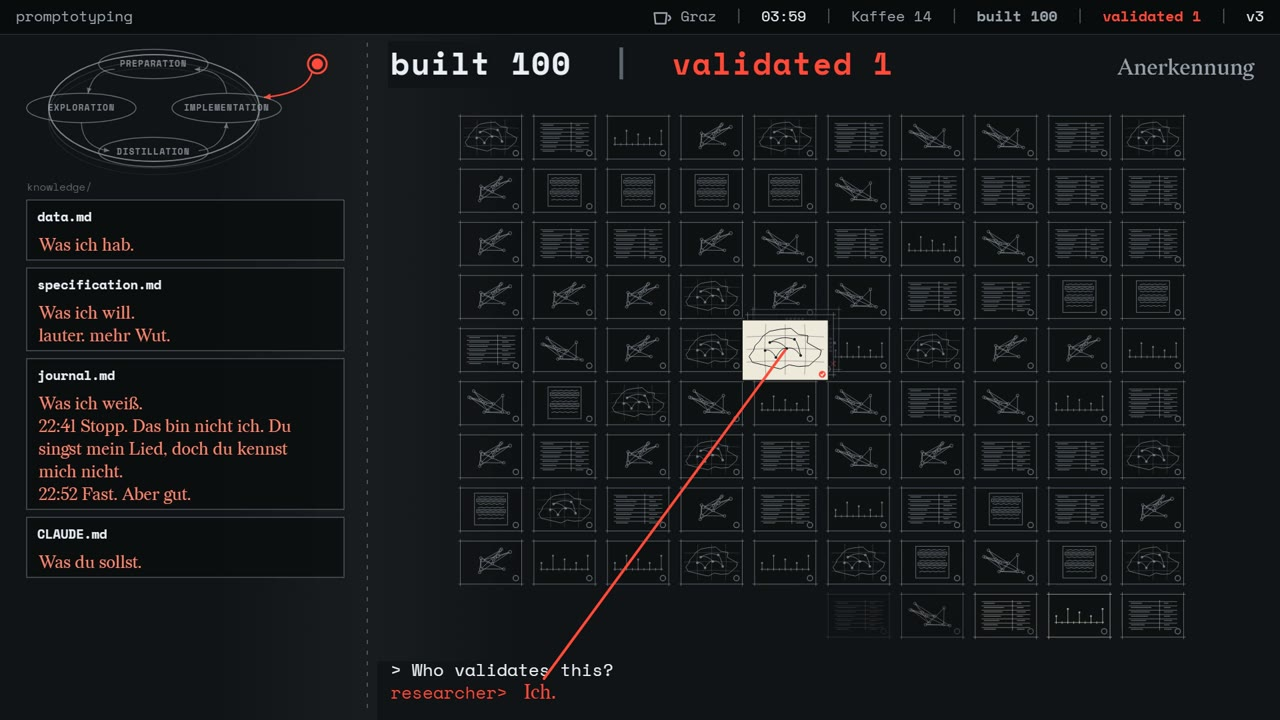
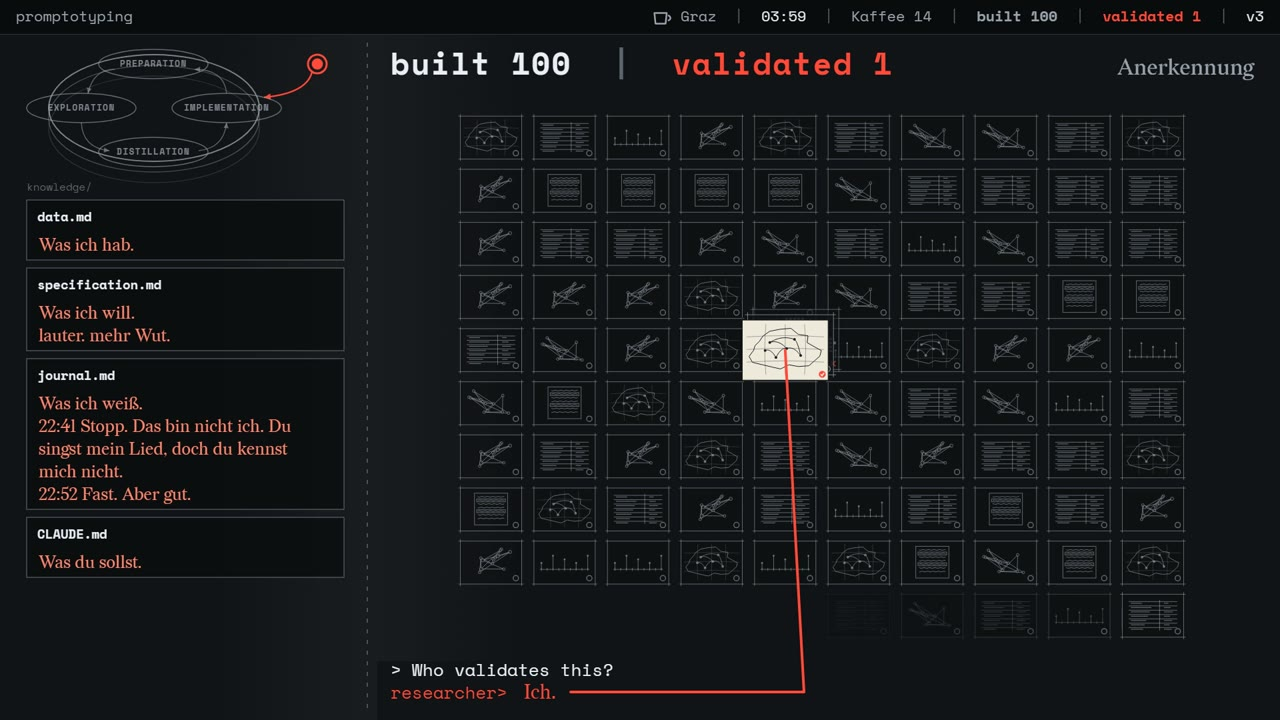
Fix the reviewed defects in the Promptotyping video and record the revision

diff --git a/video/promptotyping/scene.js b/video/promptotyping/scene.js
@@ -389,7 +389,7 @@ function drawCycle(ctx, t) {
     ctx.save(); ctx.strokeStyle = col; ctx.lineWidth = lw;
     ctx.beginPath(); ctx.ellipse(ox + 191, oy + 92 + dy, 158, 80, 0, -Math.PI / 2, -Math.PI / 2 + Math.PI * 2 * k); ctx.stroke(); ctx.restore();
   };
-  for (let j = 0; j < pass; j++) ring((pass - j) * 10, rgba(C.pale, (allK >= 0 ? 0.6 : 0.22) / (pass - j)), 1.5);
+  for (let j = 0; j < pass; j++) ring((pass - j) * 16, rgba(C.pale, (allK >= 0 ? 0.7 : 0.4) / (pass - j)), 1.5);
   const closing = span(t, EV.enter, EV.enter + 0.9);
   if (closing > 0) ring(0, closing < 1 ? C.mark : rgba(C.line, allK >= 0 ? 0.9 : 0.5), closing < 1 ? 3 : 2, closing);
   // arrows of the cycle
@@ -422,7 +422,7 @@ function drawCycle(ctx, t) {
     ctx.save(); ctx.strokeStyle = C.line; ctx.lineWidth = 2.5; ctx.setLineDash([16, 12]); ctx.lineDashOffset = -off;
     ctx.beginPath(); ctx.moveTo(x0, yy); ctx.lineTo(x1, yy); ctx.stroke(); ctx.setLineDash([]);
     font(ctx, 22, "Space Mono", 700); ctx.fillStyle = C.line; ctx.textAlign = "left"; ctx.textBaseline = "alphabetic";
-    ctx.fillText(`×${Math.max(1, spawned(frozenT(t)) - 2)}`, x0 + 6, yy + 34);
+    ctx.fillText(`×${built(t)}`, x0 + 6, yy + 34);
     ctx.restore();
   }
   // the researcher, above the cycle as in the figure
@@ -450,7 +450,7 @@ function drawStamp(ctx, t) {
   ctx.fillStyle = human ? C.mark : C.line;
   const gap = lerp(26, 10, smooth(span(t, ph.t, ph.t + 0.5)));
   let text = s;
-  if (ph.p === "loop") text = s + Math.max(1, spawned(frozenT(t)) - 2);
+  if (ph.p === "loop") text = s + built(t);
   spaced(ctx, text, STAGE.x, BAND_Y, gap);
   ctx.restore();
 }
@@ -458,7 +458,6 @@ function drawStamp(ctx, t) {
 // Five quiet glosses name what happens in Hegel's terms, set at the right end of the band.
 const GLOSS = [
   { t: LN.nein.t, s: "bestimmte Negation" },
-  { t: LN.upd1.t, s: "Er-innerung" },
   { t: EV.rushStart, s: "schlechte Unendlichkeit" },
   { t: LN.ich.t, s: "Anerkennung" },
   { t: EV.axisOff - 0.6, s: "aufgehoben" },
@@ -573,8 +572,9 @@ function introText(id, t) {
 function drawMaterial(ctx, t) {
   const gone = smooth(span(t, LN.v1.t, LN.v1.t + 0.7));
   if (gone >= 1) return;
-  const ed = 1 - smooth(span(t, LN.read.t - 0.6, LN.read.t + 0.5));
-  const fx = smooth(span(t, LN.read.t - 0.5, LN.read.t + 0.7));
+  // the typed idea fades out before the hand fades in, so the two cuts never blur into each other
+  const ed = 1 - smooth(span(t, LN.read.t - 0.6, LN.read.t - 0.1));
+  const fx = smooth(span(t, LN.read.t, LN.read.t + 0.5));
   const { x, y, w, h } = IDEA;
   ctx.save(); ctx.globalAlpha = 1 - gone;
   if (ed > 0) {
@@ -661,8 +661,8 @@ function drawV1(ctx, t, boxes) {
   if (t >= LN.nein.t) {
     const fade = 1 - smooth(span(t, LN.upd1.t + 0.4, LN.upd1.t + 1.2));
     ctx.save(); ctx.globalAlpha = fade;
-    pencil(ctx, deleaturPts(x + 80, y + h - 70, x + w - 260, y + 100), span(t, LN.nein.t, LN.nein.t + 0.6), C.mark, 12);
-    hand(ctx, "Nein.", x + 60, y + 180, 150, C.mark);
+    pencil(ctx, deleaturPts(x + 380, y + h - 70, x + w - 260, y + 100), span(t, LN.nein.t, LN.nein.t + 0.6), C.mark, 12);
+    hand(ctx, "Nein.", x + 50, y + h - 30, 150, C.mark);
     ctx.restore();
     drawVerdict(ctx, t, x + 40, y + h + 80, boxes["journal.md"]);
   }
@@ -753,10 +753,10 @@ const V2 = {
 const lerpRect = (a, b, k) => ({ x: lerp(a.x, b.x, k), y: lerp(a.y, b.y, k), w: lerp(a.w, b.w, k), h: lerp(a.h, b.h, k) });
 // Earlier versions behind a plan, each lifted up and to the right, v1 with its red cross.
 function drawSheets(ctx, r, count, alpha = 1) {
-  const step = Math.max(8, Math.min(22, r.w * 0.035));
+  const step = Math.max(8, Math.min(30, r.w * 0.05));
   for (let j = count; j >= 1; j--) {
     const x = r.x + step * j, y = r.y - step * j;
-    ctx.save(); ctx.globalAlpha *= alpha * (0.55 - 0.15 * (j - 1));
+    ctx.save(); ctx.globalAlpha *= alpha * (0.75 - 0.2 * (j - 1));
     ctx.fillStyle = C.bg; ctx.fillRect(x, y, r.w, r.h);
     const v1 = j === count;
     drawPlan(ctx, x, y, r.w, r.h, { type: "map", pixel: v1, col: C.pale, state: v1 ? "rejected" : "open", fill: false });
@@ -868,8 +868,10 @@ function drawPaper(ctx, t) {
   if (!a) return;
   const pw = 680, ph = 800, x = STAGE.x + (STAGE.w - pw) / 2, y = STAGE.y + 15;
   ctx.save(); ctx.globalAlpha = a;
-  ctx.fillStyle = C.paper; ctx.fillRect(x, y, pw, ph);
-  ctx.fillStyle = C.paperInk; ctx.textAlign = "left"; ctx.textBaseline = "alphabetic";
+  // a dark sheet like the facsimile: warm paper is reserved for what has been recognised
+  ctx.fillStyle = C.sheet; ctx.fillRect(x, y, pw, ph);
+  ctx.strokeStyle = C.hand; ctx.lineWidth = 2; ctx.strokeRect(x, y, pw, ph);
+  ctx.fillStyle = C.hand; ctx.textAlign = "left"; ctx.textBaseline = "alphabetic";
   font(ctx, 15); ctx.fillText("Working Paper | 2026", x + 60, y + 66);
   font(ctx, 72, "Redaction"); ctx.fillText(PAPER.title, x + 60, y + 160);
   font(ctx, 28, "Redaction");
@@ -879,15 +881,15 @@ function drawPaper(ctx, t) {
   font(ctx, 16, "Space Mono", 700); ctx.fillText("Abstract", x + 60, y + 366);
   let caret = null;
   ["m1", "m2"].forEach((id, i) => {
-    font(ctx, 38, "Redaction"); ctx.fillStyle = "#c2332a";
+    font(ctx, 38, "Redaction"); ctx.fillStyle = C.ink;
     const ls = wrap(ctx, typed(id, t), pw - 120);
     ls.forEach((l, j) => ctx.fillText(l, x + 60, y + 426 + i * 96 + j * 44));
     if (t >= LN[id].t && !done(id, t) && ls.length) caret = [x + 60 + ctx.measureText(ls[ls.length - 1]).width, y + 426 + i * 96 + (ls.length - 1) * 44];
   });
   if (caret) drawCaret(ctx, caret[0], caret[1], 38, t, null);
-  ctx.fillStyle = C.paperInk;
+  ctx.fillStyle = rgba(C.hand, 0.5);
   for (let i = 0; i < 6; i++) ctx.fillRect(x + 60, y + 620 + i * 22, (pw - 120) * (i === 5 ? 0.5 : 1), 6);
-  if (t >= LN.m2.t + 1.6) { font(ctx, 14); ctx.fillText("¹ Eine Arbeitspraxis, keine evaluierte Methode.", x + 60, y + ph - 34); }
+  if (t >= LN.m2.t + 1.6) { font(ctx, 20); ctx.fillStyle = C.hand; ctx.fillText("¹ Eine Arbeitspraxis, keine evaluierte Methode.", x + 60, y + ph - 34); }
   ctx.restore();
 }
 
@@ -906,7 +908,7 @@ function camera(t) {
   const nf = n - 1 + (n < MAXN ? span(tf, SPAWN[n - 1], SPAWN[n]) : 0);
   let sx = 0, sy = 0, sw = 0;
   for (let i = 0; i < n; i++) { const wgt = Math.exp(-(nf - i) / 3); sx += SPIRAL[i][0] * wgt; sy += SPIRAL[i][1] * wgt; sw += wgt; }
-  const s = lerp(1.0, 0.55, smooth(span(tf, EV.rushStart, LN.f1.t)));
+  const s = lerp(1.5, 0.55, smooth(span(tf, EV.rushStart, LN.f1.t)));
   const pb = smooth(span(t, LN.who.t, LN.who.t + 2.4));
   return { cx: lerp(sx / sw, BBOX.cx, pb), cy: lerp(sy / sw, BBOX.cy, pb), s: lerp(s, S_ALL, pb) };
 }
@@ -932,7 +934,7 @@ function drawRush(ctx, t) {
     const w = r.w * pop, h = r.h * pop;
     // unvalidated plans fade like unfixed prints in the light
     drawPlan(ctx, r.x + (r.w - w) / 2, r.y + (r.h - h) / 2, w, h, {
-      type: TYPES[CELL_TYPE[i]], col: gone > 0 ? C.paper : frozen ? C.pale : C.line,
+      type: TYPES[CELL_TYPE[i]], col: gone > 0 ? C.faint : frozen ? C.pale : C.line,
       alpha: a0 * dimIch * (1 - gone) * (t >= EV.enter ? 0.6 : 1), state: "open",
       title: r.s > 0.7 ? TYPES[CELL_TYPE[i]] : null,
     });
@@ -950,11 +952,15 @@ function drawChosen(ctx, t) {
   x = lerp(x, CHOSEN_END.x, mv); y = lerp(y, CHOSEN_END.y, mv); w = lerp(w, CHOSEN_END.w, mv); h = lerp(h, CHOSEN_END.h, mv);
   const ok = t >= EV.enter + 0.6;
   const a0 = smooth(span(t, LN.v3.t, LN.v3.t + 0.4)) * (t >= LN.ich.t && t < EV.enter + 0.6 ? 0.5 : 1);
+  // during the rush the camera rides away from it, so it stays inside the stage like every other plan
+  ctx.save();
+  if (t < LN.who.t) { ctx.beginPath(); ctx.rect(STAGE.x - 16, STAGE.y - 16, STAGE.w + 32, STAGE.h + 32); ctx.clip(); }
   if (w > 120) drawSheets(ctx, { x, y, w, h }, 2, a0);
   drawPlan(ctx, x, y, w, h, {
     type: "map", title: w > 240 ? "promptotype v3 | map" : null, alpha: a0, expose: up,
     col: t >= EV.cut ? C.pale : C.line, state: ok ? "valid" : "open",
   });
+  ctx.restore();
   return { x: x + w / 2, y: y + h / 2 };
 }
 
@@ -1055,7 +1061,6 @@ function drawValidation(ctx, t, chosen) {
   const a = smooth(span(t, LN.who.t + 1.0, LN.who.t + 1.5)) * (1 - smooth(span(t, LN.r1.t - 0.8, LN.r1.t)));
   const v = validated(t);
   ctx.save(); ctx.globalAlpha = a;
-  ctx.fillStyle = C.bg; ctx.fillRect(STAGE.x - 4, 62, STAGE.w + 8, 70);
   font(ctx, 46, "Space Mono", 700); ctx.textAlign = "left"; ctx.textBaseline = "alphabetic";
   ctx.fillStyle = C.line; let xx = spaced(ctx, `built ${built(t)}`, STAGE.x, BAND_Y, 2);
   ctx.fillStyle = C.faint; xx = spaced(ctx, "  |  ", xx, BAND_Y, 2);
@@ -1079,9 +1084,12 @@ function drawValidation(ctx, t, chosen) {
       ctx.fillText("Ich.", settle > 0.5 ? px : cx, cy);
       ctx.restore();
     }
+    // the red line leaves "Ich." to the right first, so it never crosses the question above it
     if (chosen && t >= EV.enter + 0.2) {
-      const k = span(t, EV.enter + 0.2, EV.enter + 0.7);
-      pencil(ctx, [[px + 30, py - 30], [lerp(px + 30, chosen.x, k), lerp(py - 30, chosen.y, k)]], 1, C.mark, 4);
+      const a = [px + 70, py - 10], b = [px + 420, py - 10], pts = [];
+      for (let i = 0; i <= 10; i++) pts.push([lerp(a[0], b[0], i / 10), a[1]]);
+      for (let i = 1; i <= 30; i++) pts.push([lerp(b[0], chosen.x, i / 30), lerp(b[1], chosen.y, i / 30)]);
+      pencil(ctx, pts, span(t, EV.enter + 0.2, EV.enter + 0.8), C.mark, 4);
     }
     if (t < EV.enter) drawCaret(ctx, px + 2, py, 28, t, null);
   } else if (t >= LN.ich.t - 0.4) drawCaret(ctx, px, py, 28, t, "researcher");
@@ -1128,11 +1136,9 @@ function drawDiff(ctx, t) {
   ctx.restore();
   if (t >= LN.r4.t + 2.2) {
     const k = smooth(span(t, LN.r4.t + 2.2, LN.r4.t + 2.8));
-    font(ctx, 20); ctx.fillStyle = rgba(C.pale, k); ctx.textAlign = "left";
-    ctx.fillText("commit e1n5a1d", STAGE.x + 20, 900);
-    ctx.fillText("Author: researcher | developer", STAGE.x + 20, 930);
-    font(ctx, 30, "Redaction"); ctx.fillStyle = rgba(C.ink, k);
-    ctx.fillText("Ich bin jetzt selber einer.", STAGE.x + 20, 970);
+    font(ctx, 24); ctx.fillStyle = rgba(C.pale, k); ctx.textAlign = "left";
+    ctx.fillText("commit e1n5a1d", STAGE.x + 20, 912);
+    ctx.fillText("Author: researcher | developer", STAGE.x + 20, 946);
     drawCup(ctx, STAGE.x + STAGE.w - 70, 940, 1.2, rgba(C.pale, k), k, t);
   }
 }

diff --git a/knowledge/promptotyping-production.md b/knowledge/promptotyping-production.md
@@ -93,3 +93,11 @@ The operator supplied the recording as an MP3 on 2026-10-29. Its path, hash and 
 Checks run on 2026-10-29: `node --check` on scene, timeline and analysis; stills at fifteen moments across every section, inspected as contact sheets, which led to fixes for overflowing map labels, overlapping timeline rows, the profile covering the handwriting, the diff colliding with the commit line and an overlong scream line; identical PNG hashes for the same times rendered in different orders and in a fresh browser context; a full render with two workers plus the 720p copy; ffprobe of the export (1920×1080, 30 fps, video 170.70 s, audio 170.68 s); a full ffmpeg decode without errors; and frames extracted from the export at 49, 88.6, 134, 146 and 161 s that match the stills. Perceptual sync has not been checked by listening. The lines marked in timeline.js need a listening pass.
 
 Accent `#3fe0a8` and the paper title page with the real title and name are implemented as proposed and remain the operator's decision. The video is not integrated into the album page.
+
+## Revision on 2026-10-29
+
+After the first render the operator asked for more consistency and a stronger aesthetic, rejected a blueprint look as stereotypical and asked that the aesthetics derive from what Promptotyping is, an engagement with culture read with Hegel. The scene now carries this reading: determinate negation as the red deleatur on "Nein.", sublation as rejected versions kept and lifted behind the next one, the cycle of the paper's Figure 1 as a rising spiral in the column, bad infinity as the ring breaking open into a straight dashed line during the rush, recognition as "Ich." drawing a red line to one plan, which alone becomes warm paper, and the mirror axis zipping shut on "selber einer". Colour roles are exclusive: night ground, machine as cool light, the human as red pencil, the recognised as paper. The status bar counts built against validated artefacts and reaches built 100 and validated 1. Quiet glosses name four of the moments in Hegel's terms.
+
+Two independent reviews by a Fable 5.1 subagent, each from frames extracted from the export and the code, preceded and followed the revision. The second found the validated plan drifting out of the stage during the rush, warm paper appearing before recognition (paper title page, dissolving plans), two counters showing different numbers, "Nein." covering a map label, the red line crossing the terminal question, a blurred crossfade from typed to handwritten text, a weak start of version three, stacks and older rings too faint at 720p, and an unreadable footnote. All were fixed. On its advice the gloss "Er-innerung" and the repeated commit line were cut; the other four glosses stay as the operator asked for the Hegel reading to be visible.
+
+Checks after the revision: stills at every section and at each fixed moment, identical PNG hashes across render orders and a fresh browser context, a full render with two workers plus the 720p copy, ffprobe (video 170.70 s, audio 170.68 s), a full decode without errors. Album integration was built with tools/build_album.py; all earlier album entries are unchanged. Listening acceptance is open.

diff --git a/knowledge/handoff.md b/knowledge/handoff.md
@@ -23,6 +23,6 @@ generated-with: Claude Code (Claude Opus 5.5)
 - Jagged Alien Intelligences is accepted for album integration and built locally with release-addressed data and a prepared web encode. Browser integration checks passed. The release upload and push remain pending authorization under the standing Git rule. See [the production treatment](jagged-alien-intelligences-production.md).
 - The accent #5468ff of "Bin ich noch der Expert?" reaches 4.4:1 against the page surface. The page lifts it for text where relative colour syntax is supported.
 - Known weaknesses of the Recursive Self-Improvement video reported by its build agent, a short overlap when a line becomes active and the barely legible damage grade 6 in the final chorus.
-- Promptotyping is a new song whose lyrics and style prompt the operator accepted on 2026-10-29, in [video/promptotyping/](../video/promptotyping/). The song stages its own making as a Promptotyping workflow, with three chorus versions as promptotypes, and makes almost no factual claims beyond the unfunded start. The Suno generation with the official download is with the operator. The video is rendered locally from the operator's recording, see [promptotyping-production.md](promptotyping-production.md). Open are the operator's acceptance, a listening pass on the lines marked in timeline.js, the accent and paper title page decisions, confirmation that the MP3 is the official download, and album integration.
+- Promptotyping is a new song whose lyrics and style prompt the operator accepted on 2026-10-29, in [video/promptotyping/](../video/promptotyping/). The song stages its own making as a Promptotyping workflow, with three chorus versions as promptotypes, and makes almost no factual claims beyond the unfunded start. The Suno generation with the official download is with the operator. The video is rendered locally from the operator's recording, see [promptotyping-production.md](promptotyping-production.md). The operator accepted the second version for the album on 2026-10-29; it is integrated locally. Open are a listening pass on the lines marked in timeline.js, confirmation that the MP3 is the official download, and the release upload and push, which also carry Jagged Alien Intelligences.
 - The posts announcing the album (LinkedIn, Mastodon, Bluesky, Patreon) are written and wait for the operator to publish them.
 - Corrections found in the operator's teaching materials during the source work and not yet applied there: the Data Librarian materials cite Wiener's Cybernetics (1961) for the sorcerer's apprentice warning, while the read source is Wiener (1960) in Science, and the vault's Repo-Verzeichnis lists Second Brain without a remote although chpollin/second-brain-vault is public.
